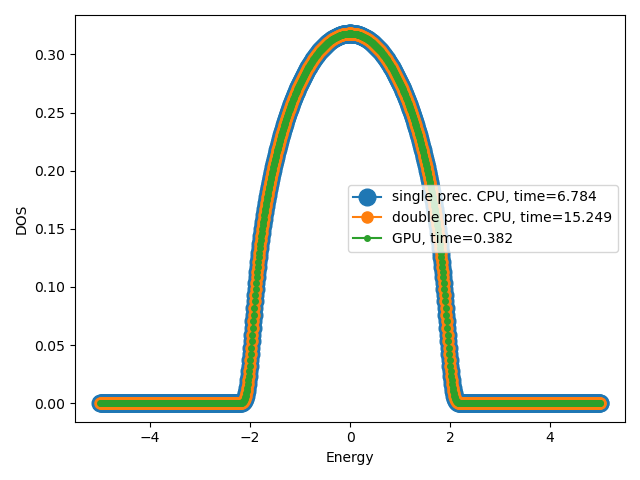
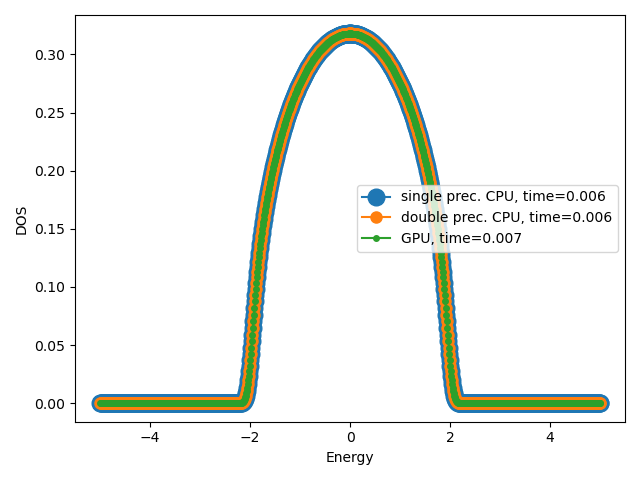
Update

Changed region(s): [[0.5312, 0.375, 0.9688, 0.5312]]

diff --git a/examples/GPU/main.py b/examples/GPU/main.py
@@ -4,10 +4,12 @@ sys.path.append(os.getcwd()+"/../../src")
 from qtcipy.tbscftk import hamiltonians
 import numpy as np
 
-L = 22 # exponential length
+L = 12 # exponential length
 H = hamiltonians.chain(L) # get the Hamiltonian
 
 import time
+
+H.get_dos_i(kpm_cpugpu="GPU") # run once to precompile
 
 # run on the CPU, with single precission
 
